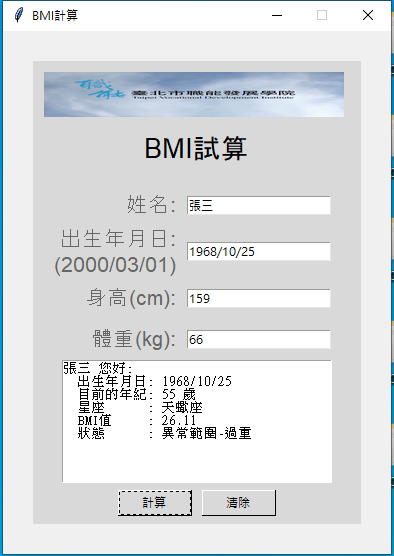
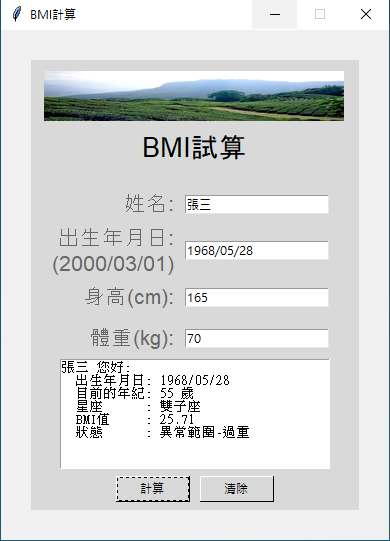
modify:圖片更新

diff --git a/homeWork/homework_13.py b/homeWork/homework_13.py
@@ -59,7 +59,7 @@ class Window(tk.Tk):
         weightEntry=ttk.Entry(bottomFrame,style="gdEntry.TEntry",textvariable=self.weightVar)
         weightEntry.grid(row=4,column=1,sticky=tk.W,padx=10)
 
-        self.messageText=tk.Text(bottomFrame,height=8,width=38,state=tk.DISABLED) 
+        self.messageText=tk.Text(bottomFrame,height=7,width=38,state=tk.DISABLED) 
         self.messageText.grid(row=5,column=0,sticky=tk.N+tk.S,columnspan=2)
 
         #---------commitFrame:start--------
@@ -75,11 +75,11 @@ class Window(tk.Tk):
         clearButton.grid(row=0,column=1,sticky=tk.E)                #方法2
 
         #---------Image:start--------
-        logoImg=Image.open('./images/homework_13L.png')
-        logoImg_N=logoImg.resize((300,45),Image.LANCZOS)
+        logoImg=Image.open('./images/homework_133.jpg')
+        logoImg_N=logoImg.resize((300,50),Image.LANCZOS)
         self.logoTkImg=ImageTk.PhotoImage(logoImg_N)                
         logoLabel=ttk.Label(self,image=self.logoTkImg,width=180)
-        logoLabel.place(x=40,y=40)
+        logoLabel.place(x=42,y=40)
 
     def press_clear(self,*args) ->None:
         self.nameVar.set("")
